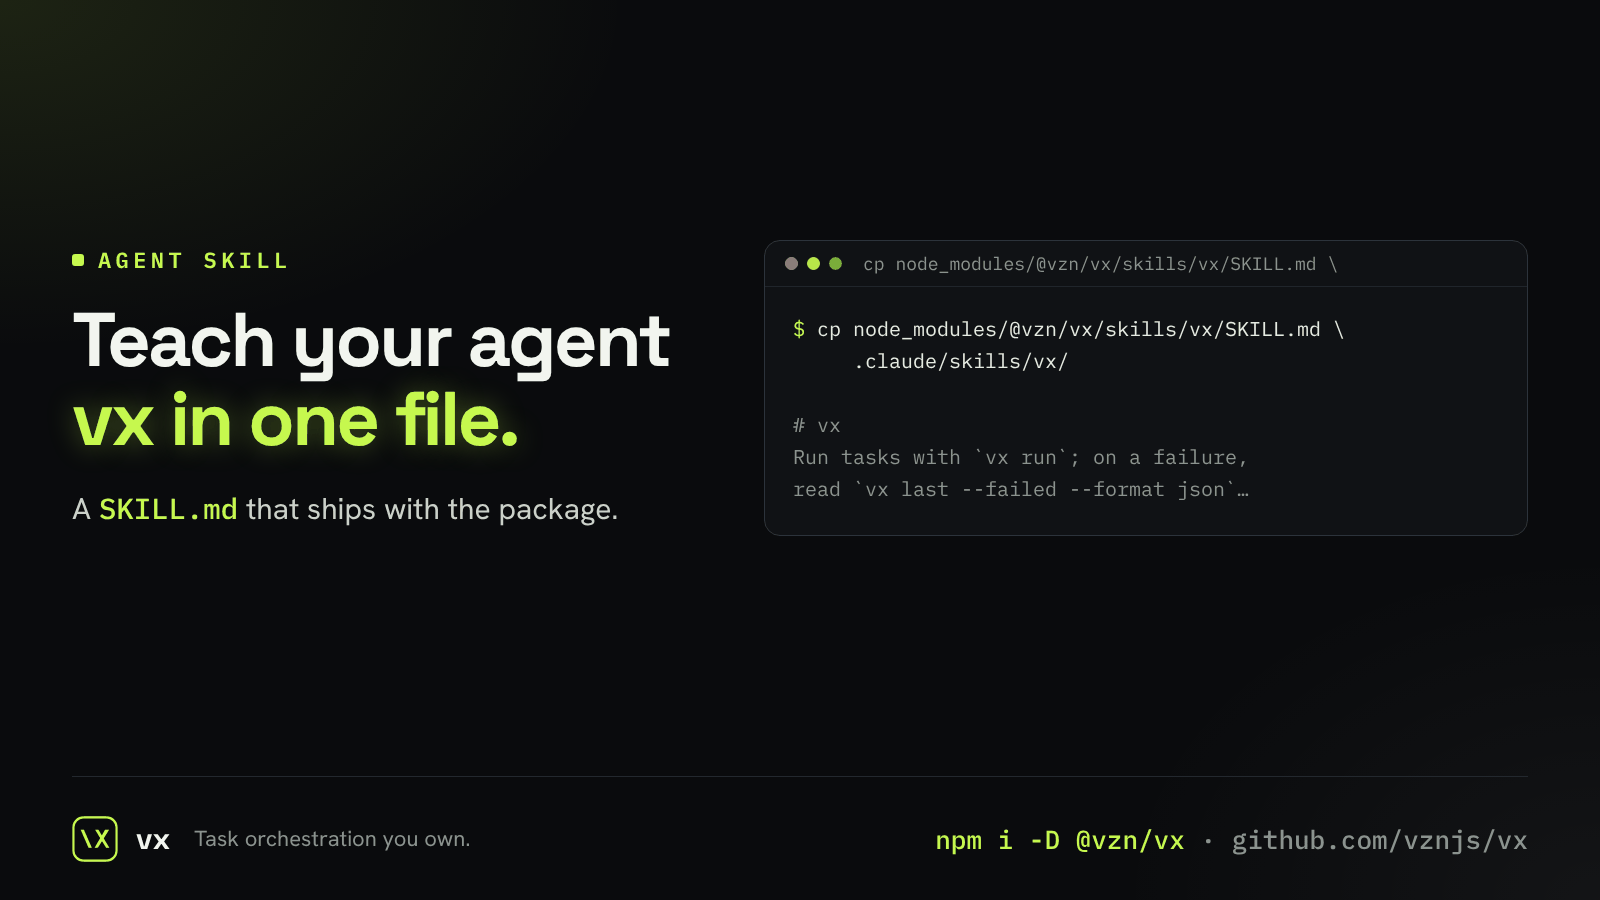
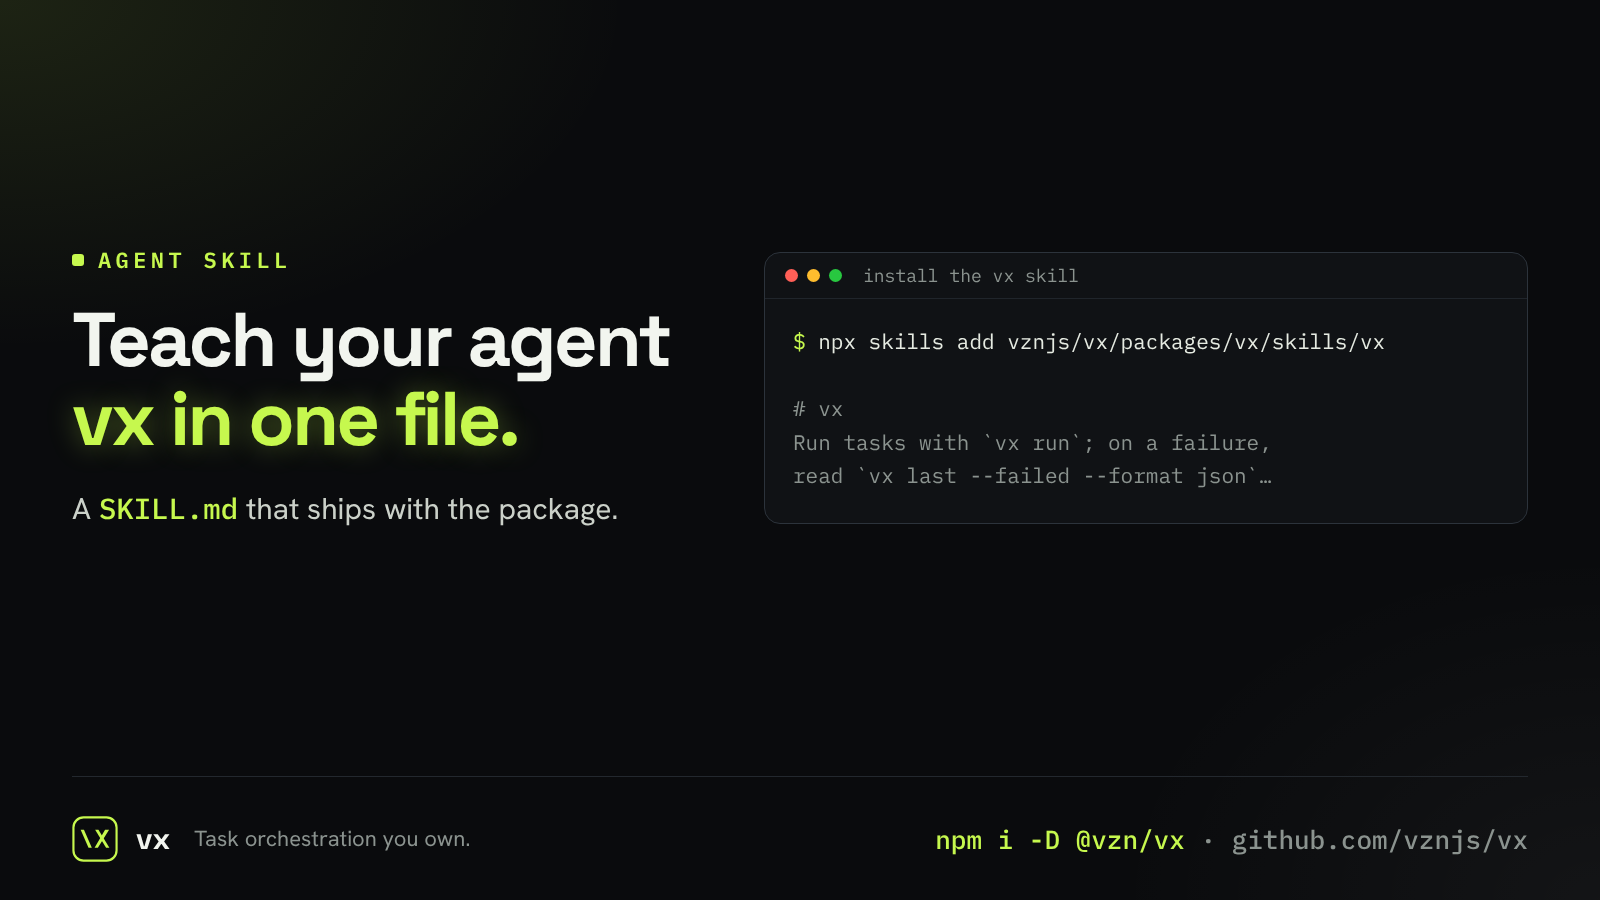
docs(vx-docs): drop vx mcp from blog posts, show the skill install
@vzn/vx-mcp is retired (#3527); posts pointed agents at it. The agent
skill image shows npx skills add.

Claude-Session: https://claude.ai/code/session_012eDNdmtGv5tY35yRtodFB6

Changed region(s): [[0.5, 0.4356, 0.7812, 0.56], [0.5, 0.3422, 0.875, 0.4044], [0.4688, 0.28, 0.8438, 0.3111]]

diff --git a/packages/vx-docs/src/content/docs/blog/flaky-tasks.md b/packages/vx-docs/src/content/docs/blog/flaky-tasks.md
@@ -47,10 +47,9 @@ note after its name:
 A task that was not flaky carries no note. `vx info` keeps the
 standing list across runs, `--summarize` carries it as typed data
 (`flaky: { passes, failures, attempts }` on the task, so a consumer can
-tell a break from a flake without parsing text), and the MCP server
-reports the same signal to an agent — `getRunHistory` as each task's
-failure mode, `getWorkspaceInfo` as the standing list — so an agent
-does not learn to shrug at a repeated failure on changing inputs.
+tell a break from a flake without parsing text), and
+`vx last --stats --format json` gives an agent each task's failure
+mode, so it does not learn to shrug at a repeated failure on changing inputs.
 
 ## Why it is free
 

diff --git a/packages/vx-docs/src/content/docs/blog/the-sandbox.md b/packages/vx-docs/src/content/docs/blog/the-sandbox.md
@@ -89,8 +89,7 @@ fix: exec.sandbox.allow: { read: ['tsconfig.json'], write: ['dist/'] }
 A write grants the directory it landed in, unless the task reads that
 directory as an input: then it grants the file alone, so a fix never
 lets a task write its own inputs. Agents get the same grants as
-`sandboxFix` in `vx last --format json` and from `vx mcp`'s
-`getFailures`. Because an agent may apply them as given, a credential
+`sandboxFix` in `vx last --format json`. Because an agent may apply them as given, a credential
 path (`~/.ssh`, `~/.aws`, `~/.npmrc`, a `.env` file and the like) never
 goes in the line. It is listed apart, to grant only on purpose. A
 cached task's read that no input glob matches is named again as a

diff --git a/packages/vx-docs/src/content/docs/blog/why-did-this-rerun.md b/packages/vx-docs/src/content/docs/blog/why-did-this-rerun.md
@@ -104,10 +104,10 @@ cross.
 
 ## The same answer for machines
 
-`--format json` emits one object: `{ taskId, runId, why, diff, roots }`. The
-`@vzn/vx-mcp` plugin exposes the same query as a tool a coding agent
-can call (`whyDidThisRerun`), so "why is CI rebuilding everything" is a
-question an agent can answer without reading the source of the runner.
+`--format json` emits one object: `{ taskId, runId, why, diff, roots }`,
+so "why is CI rebuilding everything" is a question a coding agent can
+answer without reading the source of the runner. The
+[agent skill](../../guides/agents/) teaches it the command.
 
 A cache is a claim that the work has been done before. `vx why` is how
 the claim is audited. The guide is

diff --git a/packages/vx-docs/src/content/docs/blog/env-isolation.md b/packages/vx-docs/src/content/docs/blog/env-isolation.md
@@ -80,8 +80,7 @@ A value whose name holds `TOKEN`, `SECRET`, `KEY`, `PASSWORD`, `PASSWD`
 or `CREDENTIAL` is masked without being asked. `GH_PAT` holds none of
 those words, so it is listed in `secret`. Masking covers more than the
 live log: the output the cache keeps and a hit replays, the command a
-remote cache receives, `vx show`, `vx why`, `vx last`, telemetry, and the
-errors `vx mcp` gives an agent. A multi-line key is masked line by line,
+remote cache receives, `vx show`, `vx why`, `vx last` and telemetry. A multi-line key is masked line by line,
 and a value split across two chunks of output is still caught.
 
 ## When a variable changes the output

diff --git a/packages/vx-docs/src/content/docs/blog/pipeline-with-seams.md b/packages/vx-docs/src/content/docs/blog/pipeline-with-seams.md
@@ -72,8 +72,6 @@ them without a special case in core:
 - **`@vzn/vx-otel`** and **`@vzn/vx-ci`** are `telemetry` sinks: an
   OTLP exporter with no OpenTelemetry SDK dependency, and a GitHub
   Actions job summary plus a check run on the built commit.
-- **`@vzn/vx-mcp`** is `commands`: a Model Context Protocol server for
-  coding agents, a verb core does not know.
 
 Every one of these lives in its own package and imports core only
 through `@vzn/vx`'s public façade. A test pins the façade so it cannot

diff --git a/packages/vx-docs/src/content/docs/blog/hello-vx.md b/packages/vx-docs/src/content/docs/blog/hello-vx.md
@@ -45,7 +45,7 @@ runner.
 - **In core:** the graph, the keys, the scheduler, the local cache and
   running on this machine. A workspace with no plugins runs and caches.
 - **Plugins:** remote caches, remote execution, telemetry, CI summaries,
-  lockfile-aware keys, AI agents over MCP. Each one sits on a
+  lockfile-aware keys. Each one sits on a
   documented seam, and you declare it in `.vx/workspace.ts`.
 - **Never:** a hosted dashboard, a daemon, or a cloud you have to buy
   into.

diff --git a/packages/vx-docs/src/content/docs/blog/error-codes.md b/packages/vx-docs/src/content/docs/blog/error-codes.md
@@ -58,5 +58,5 @@ tasks it found; `vx show --format json` lists each project's. …
 | `VX_E_FDS`        | `ulimit -n 4096`, or fewer tasks at once |
 
 Every core code has its section, and a test holds the list to the codes
-the source can throw. Over MCP, a refused tool call carries the same
-`docs` link. See the [Agents guide](../../guides/agents/).
+the source can throw. `--format json` carries the same `docs` link for
+an agent. See the [Agents guide](../../guides/agents/).

diff --git a/packages/vx-docs/src/content/docs/blog/inputs-that-move.md b/packages/vx-docs/src/content/docs/blog/inputs-that-move.md
@@ -83,7 +83,7 @@ be declared as an output instead, and the status line says so.
 (or `VX_CACHE_INPUT_STABILITY_SEVERITY=error`) fails the task instead of
 warning, for a pipeline that would rather stop than build twice. The
 task's line then names the file, `failed (src/a.ts changed during the run, exit 1)`,
-and agents read the same as `inputMoved` in `vx last` and `vx mcp`.
+and agents read the same as `inputMoved` in `vx last --format json`.
 
 ## What runs downstream
 

diff --git a/packages/vx-docs/src/content/docs/blog/built-for-agents.md b/packages/vx-docs/src/content/docs/blog/built-for-agents.md
@@ -113,8 +113,7 @@ $ mkdir -p .claude/skills/vx
 $ cp node_modules/@vzn/vx/skills/vx/SKILL.md .claude/skills/vx/
 ```
 
-For live questions over the Model Context Protocol, see
-[Give your coding agent the build's memory](../agents-and-mcp/). The
+Or install it with `npx skills add vznjs/vx/packages/vx/skills/vx`. The
 [agents guide](../../guides/agents/) and
 [machine-readable output](../../cli/#machine-readable-output) have the
 details.

diff --git a/packages/vx-docs/src/content/docs/blog/one-command-per-task.md b/packages/vx-docs/src/content/docs/blog/one-command-per-task.md
@@ -51,7 +51,7 @@ capability in vx becomes a transformation of the same triple:
 - **Migration** from Turborepo or Nx is mostly a rendering problem,
   because both of them ultimately run a command too; vx just writes it
   where you can read it.
-- **`vx show`, `--dry`, MCP's `listTasks`** all print the same thing a
+- **`vx show` and `--dry`** both print the same thing a
   human would type.
 
 ## The environment is declared too

diff --git a/packages/vx-docs/src/content/docs/blog/know-your-workspace.md b/packages/vx-docs/src/content/docs/blog/know-your-workspace.md
@@ -35,7 +35,7 @@ sandbox:          available (0 tasks declare exec.sandbox)
 It reads what vx already knows: the run history, the cache index, the
 host. It notes when a container caps memory below the machine's, and
 whether git's fast status cache is on. `--format json` gives agents the
-same facts, and `vx mcp` serves them as a tool.
+same facts.
 
 ## A cache that keeps itself in bounds
 

diff --git a/packages/vx-docs/src/content/docs/blog/lock-and-frozen.md b/packages/vx-docs/src/content/docs/blog/lock-and-frozen.md
@@ -78,7 +78,7 @@ first line, which is the point.
 
 An agent asks the same question in JSON: `vx lock --check --format json`
 prints `{"upToDate": false, "audited": 4, "notAudited": 0, "problems": [...]}`
-with the same exit code, and `vx mcp` answers it as `checkLock`. Each
+with the same exit code. Each
 problem is the line a person would read on stderr.
 
 ## Where it came from
